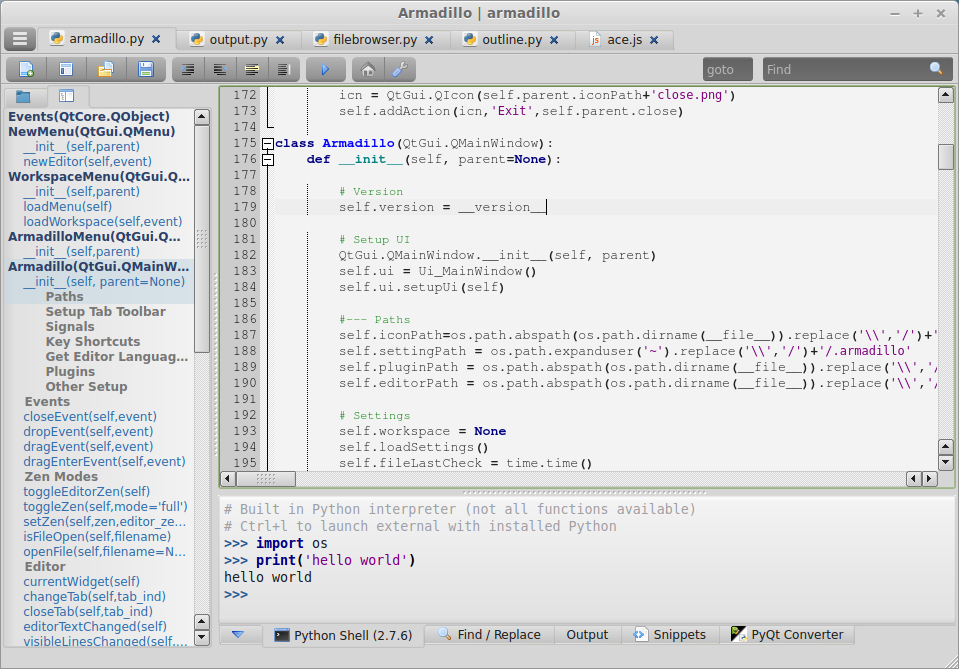
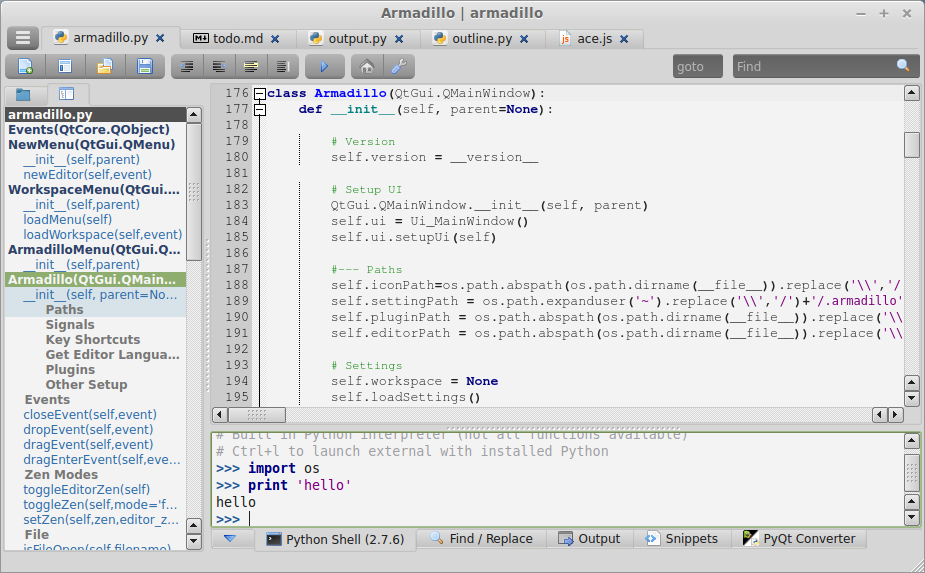
added editorTabClose signal outline - removes pages when tab closed updated readme and screenshot

diff --git a/armadillo/armadillo.py b/armadillo/armadillo.py
@@ -6,7 +6,7 @@
 # --------------------------------------------------------------------------------
 
 # VERSION
-__version__ = '1.2.1'
+__version__ = '1.2.2'
 
 import sys, json, codecs, time, importlib
 from PyQt4 import QtCore, QtGui, QtWebKit
@@ -20,6 +20,7 @@ class Events(QtCore.QObject):
     editorSaved = QtCore.pyqtSignal(QtGui.QWidget)
     editorVisibleLinesChanged = QtCore.pyqtSignal(QtGui.QWidget,tuple)
     close=QtCore.pyqtSignal()
+    editorTabClosed = QtCore.pyqtSignal(QtGui.QWidget)
     
 class NewMenu(QtGui.QMenu):
     def __init__(self,parent):
@@ -601,12 +602,15 @@ class Armadillo(QtGui.QMainWindow):
             ok = self.checkSave(wdg)
                 
         if ok:
+            # Emit close signal
+            self.evnt.editorTabClosed.emit(wdg)
+            
             self.tabD.pop(file_id)
             # Remove Tab
             self.ui.tab.removeTab(tab_ind)
             # Remove Widget
             self.ui.sw_main.removeWidget(wdg)
-            
+
             # Add start page if no tabs exist
 ##            if self.ui.sw_main.count() == 0:
 ##                self.addStart()

diff --git a/armadillo/plugins/outline/outline.py b/armadillo/plugins/outline/outline.py
@@ -154,7 +154,13 @@ class Outline(QtGui.QWidget):
         self.updateOutline(wdg)
         self.ui.le_find.clear()
         self.ui.fr_find.hide()
-    
+        
+    def editorTabClosed(self,wdg):
+        trwdg = self.wdgD[wdg]
+        self.wdgD.pop(wdg)
+        self.ui.sw_outline.removeWidget(trwdg)
+        
+        
     def goto(self,itm,col):
         line = int(str(itm.text(1)))
         wdg = self.treeD[self.ui.sw_outline.currentWidget()]

diff --git a/armadillo/plugins/outline/__init__.py b/armadillo/plugins/outline/__init__.py
@@ -4,6 +4,7 @@ def addDock(parent):
     dock = outline.Outline(parent)
     parent.evnt.editorAdded.connect(dock.addOutline)
     parent.evnt.editorTabChanged.connect(dock.editorTabChanged)
+    parent.evnt.editorTabClosed.connect(dock.editorTabClosed)
     dock.title = 'Outline'
     dock.location = 'left'
     return dock

diff --git a/README.md b/README.md
@@ -2,7 +2,7 @@
 ![Alt text](extra/screenshot.png "Screenshot")
 
 ## About
-Armadillo is a lightweight, cross-platform IDE primarily for Python and Web Development, while also providing an editor for most languages. Armadillo is inspired by SPE, Geany, Notepad++ and Spyder. Armadillo is written in Python with PyQt for the UI. Some HTML5 is utilized for the ui with Qt's built in WebKit (QWebView).
+Armadillo is a lightweight, cross-platform IDE. Many of Armadillo's default tools are focused on Python and HTML5, but most languages are supported. Armadillo is inspired by SPE, Geany, Notepad++ and Spyder. Armadillo is written in Python with PyQt for the UI. Some of the ui is built with HTML5 utilizing Qt's built in WebKit (QWebView).
 
 ## Features:
 - Cross Platform (Linux, Windows, and maybe Mac)
@@ -34,6 +34,7 @@ Armadillo is a lightweight, cross-platform IDE primarily for Python and Web Deve
 - **[Editors](armadillo/doc/editors.md)** - multiple code editors are available
 - **[Plugins](armadillo/doc/plugins.md)** - comes with default plugins
     - [Outline](doc/plugins_outline.md) - Outline plugin for code organization
+    - Output - run your code in a separate process in the IDE.
     - [Python Shell](doc/plugins_pyconsole.md) - integrated Python Console
     - PyQt Converter - convert Qt ui files to PyQt .py files
     - Find / Replace - advanced find/replace tool
